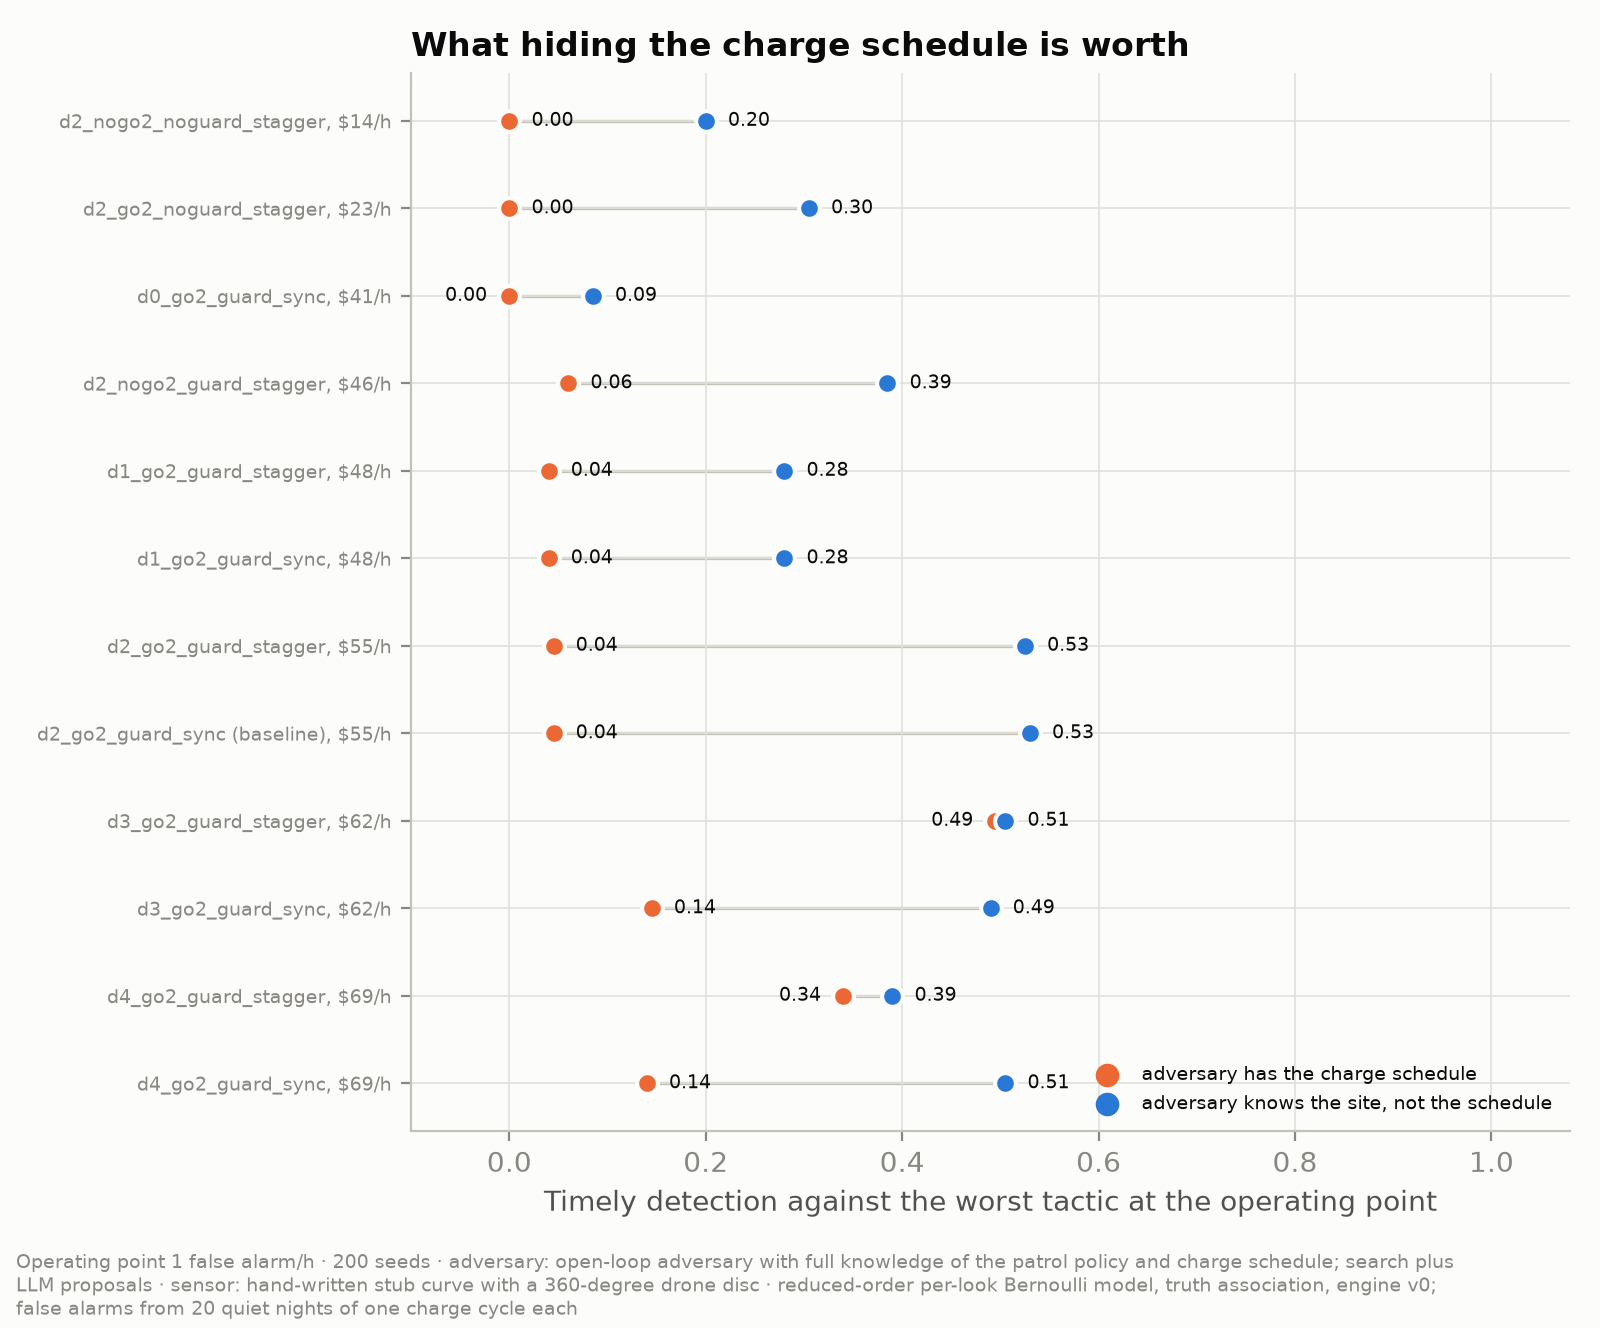
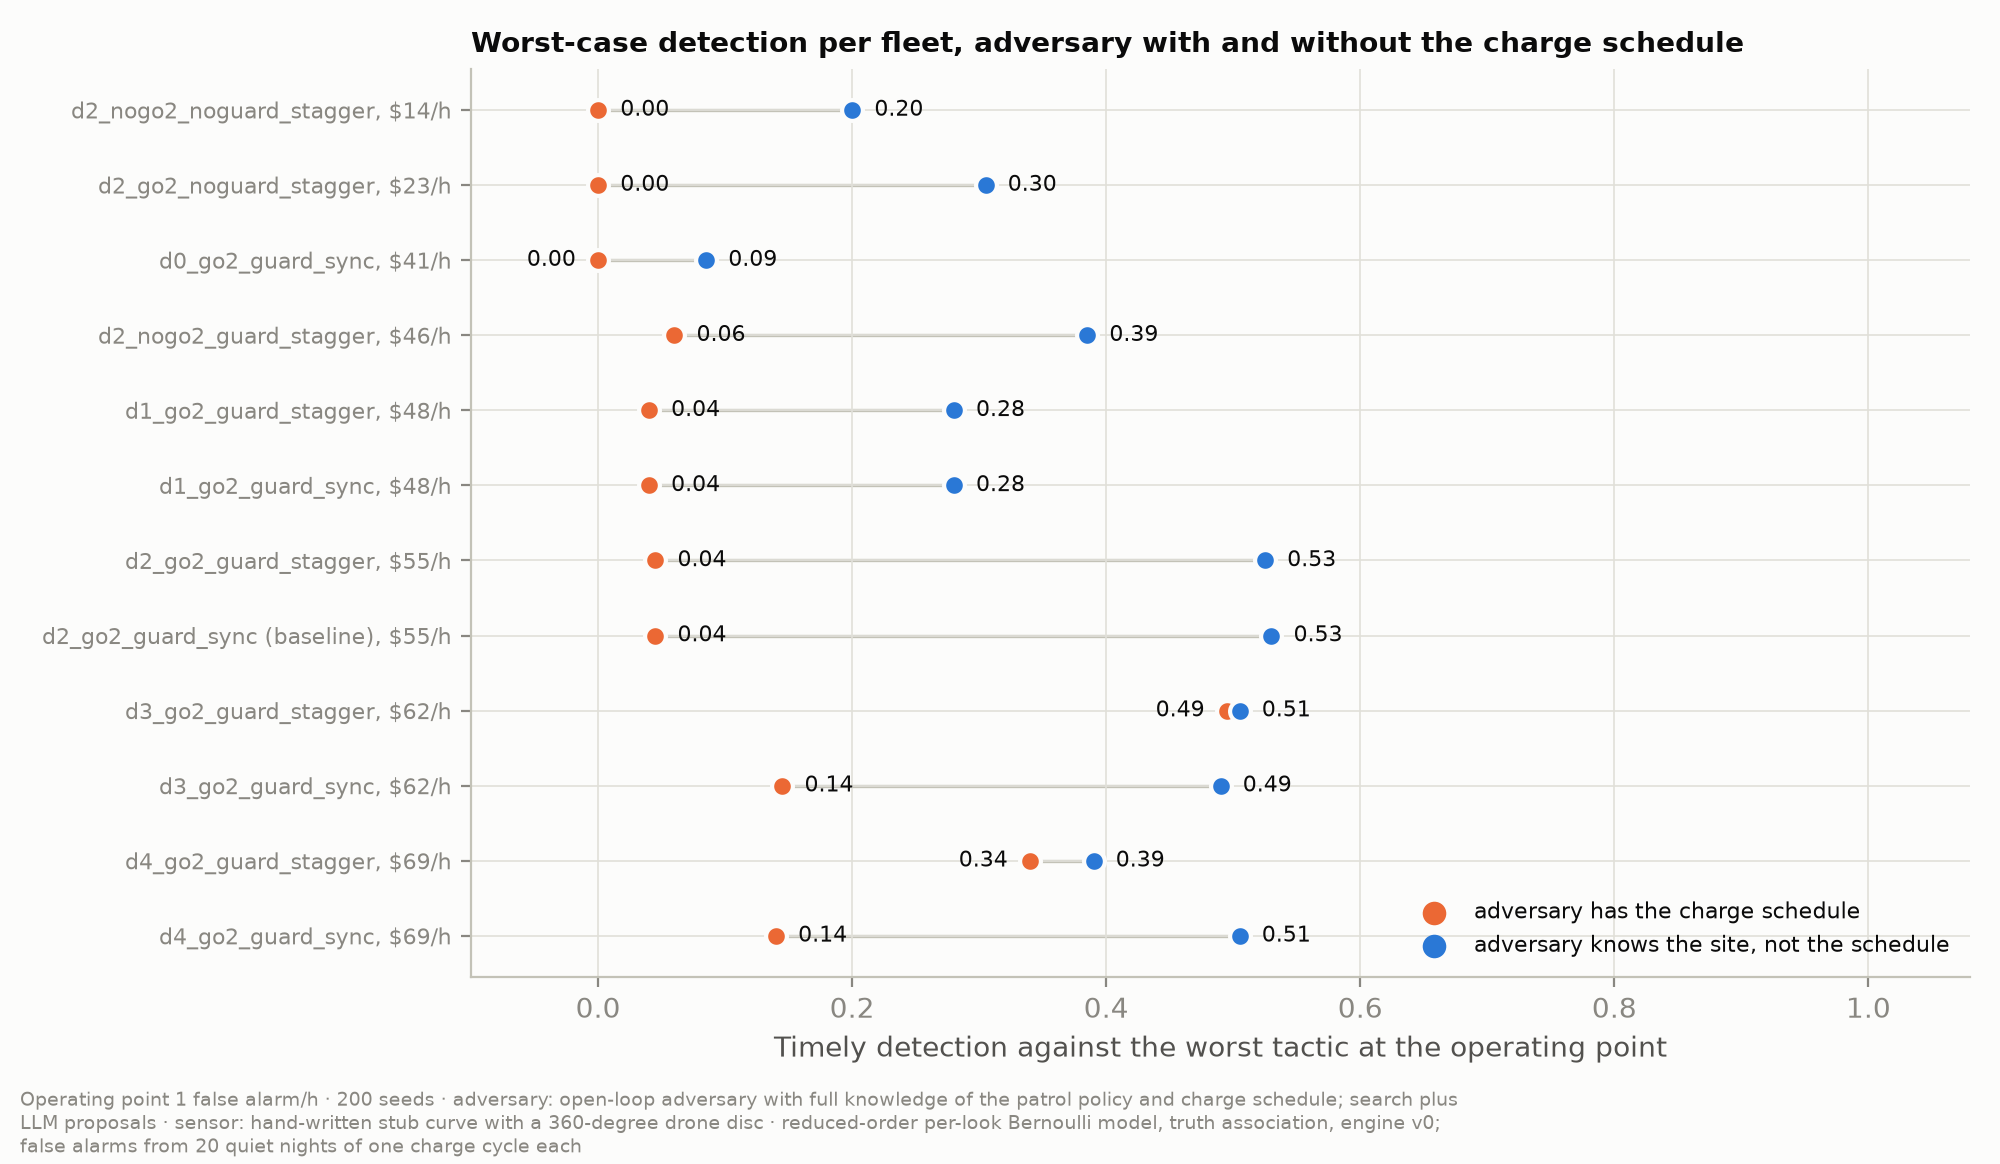
fix(pitch): fix and schedule slides fit the frame; chart title no longer repeats the slide title

diff --git a/pitch/build_deck.py b/pitch/build_deck.py
@@ -49,7 +49,7 @@ def blind_line(ba: dict) -> str:
     pair = ba.get("worst_tactic_pd_schedule_blind") or [None, None]
     if pair[0] is None or pair[1] is None:
         return ""
-    return f"; the same tactics without the charge schedule {_fmt(pair[0])} to {_fmt(pair[1])}"
+    return f"; the same tactics without the schedule {_fmt(pair[0])} to {_fmt(pair[1])}"
 
 
 def _fmt(v: float, digits: int = 2) -> str:
@@ -113,7 +113,7 @@ def build(
     )
     sb = numbers.get("schedule_blind") or {}
     schedule_slide = (
-        f"# What hiding the schedule is worth\n\n![height:440px]({charts_rel}/schedule_blind.png)\n\nSame fleets, same worst tactics. The orange point assumes the adversary has the charge schedule to the second; the blue point gives it the site and nothing else. The gap is what a site buys by keeping its schedule private, and the score reports both.{watermark}"
+        f"# What hiding the schedule is worth\n\n![height:480px]({charts_rel}/schedule_blind.png)\n\nSame fleets, same worst tactics: orange has the charge schedule, blue only the site. The gap is what keeping the schedule private buys.{watermark}"
         if sb and ba
         else None
     )
@@ -133,7 +133,7 @@ def build(
         ),
         f"# The score\n\n![height:470px]({charts_rel}/cost_vs_detection.png){watermark}",
         (
-            f"# The fix and the re-attack\n\n![height:400px]({charts_rel}/before_after.png)\n\n{ba['baseline']} to {ba['fixed']}: detection {_fmt(ba['pd'][0])} to {_fmt(ba['pd'][1])}; against the re-attacking worst tactic {_fmt(ba['worst_tactic_pd'][0])} to {_fmt(ba['worst_tactic_pd'][1])}{blind_line(ba)}.\n\n*Replay clip B: the catch.*{clip_line(clips, 'catch')}{watermark}"
+            f"# The fix and the re-attack\n\n![height:300px]({charts_rel}/before_after.png)\n\n{ba['baseline']} to {ba['fixed']}: detection {_fmt(ba['pd'][0])} to {_fmt(ba['pd'][1])}; worst tactic {_fmt(ba['worst_tactic_pd'][0])} to {_fmt(ba['worst_tactic_pd'][1])}{blind_line(ba)}.\n\n*Replay clip B: the catch.*{clip_line(clips, 'catch')}{watermark}"
             if ba
             else f"# The fix and the re-attack\n\n*Needs a report with at least two configurations.*{watermark}"
         ),

diff --git a/pitch/make_charts.py b/pitch/make_charts.py
@@ -337,7 +337,7 @@ def chart_schedule_blind(r: Report, p: Palette, out: Path, numbers: dict) -> Non
     if len(rows) < len(r.configs) or not rows:
         return
     rows.sort(key=lambda c: (c.cost_per_hour, c.config_name))
-    fig, ax = plt.subplots(figsize=(8, 0.42 * len(rows) + 1.6))
+    fig, ax = plt.subplots(figsize=(10, 0.36 * len(rows) + 1.5))
     ys = list(range(len(rows)))[::-1]
     for y, c in zip(ys, rows, strict=True):
         known, hidden = c.worst_tactic_pd, float(c.worst_tactic_pd_schedule_blind or 0.0)
@@ -360,7 +360,7 @@ def chart_schedule_blind(r: Report, p: Palette, out: Path, numbers: dict) -> Non
                 textcoords="offset points",
                 va="center",
                 ha=ha,
-                fontsize=7,
+                fontsize=8,
                 color=p.ink,
             )
     ax.scatter([], [], s=56, color=p.series[1], label="adversary has the charge schedule")
@@ -371,12 +371,16 @@ def chart_schedule_blind(r: Report, p: Palette, out: Path, numbers: dict) -> Non
             f"{c.config_name}{' (baseline)' if c.config_name == r.baseline_config else ''}, ${c.cost_per_hour:.0f}/h"
             for c in rows
         ],
-        fontsize=7,
+        fontsize=8,
     )
     ax.set_xlim(-0.1, 1.08)
     ax.set_xlabel("Timely detection against the worst tactic at the operating point")
-    ax.set_title("What hiding the charge schedule is worth", loc="left")
-    ax.legend(loc="lower right", fontsize=7, frameon=False)
+    ax.set_title(
+        "Worst-case detection per fleet, adversary with and without the charge schedule",
+        loc="left",
+        fontsize=10,
+    )
+    ax.legend(loc="lower right", fontsize=8, frameon=False)
     fig.text(0.01, 0.01, conditions_line(r), fontsize=7, color=p.muted)
     fig.tight_layout(rect=(0, 0.06, 1, 1))
     fig.savefig(out / "schedule_blind.png")

diff --git a/pitch/deck.md b/pitch/deck.md
@@ -60,9 +60,9 @@ Clip A, seed 63663: d2_go2_guard_sync never raised a timely alarm against `charg
 
 # The fix and the re-attack
 
-![height:400px](charts/before_after.png)
+![height:300px](charts/before_after.png)
 
-d2_go2_guard_sync to d3_go2_guard_stagger: detection 0.14 to 0.63; against the re-attacking worst tactic 0.04 to 0.49; the same tactics without the charge schedule 0.53 to 0.51.
+d2_go2_guard_sync to d3_go2_guard_stagger: detection 0.14 to 0.63; worst tactic 0.04 to 0.49; the same tactics without the schedule 0.53 to 0.51.
 
 *Replay clip B: the catch.*
 
@@ -72,9 +72,9 @@ Clip B, same seed and tactic: d3_go2_guard_stagger alarmed at 24 s, before the 3
 
 # What hiding the schedule is worth
 
-![height:440px](charts/schedule_blind.png)
+![height:480px](charts/schedule_blind.png)
 
-Same fleets, same worst tactics. The orange point assumes the adversary has the charge schedule to the second; the blue point gives it the site and nothing else. The gap is what a site buys by keeping its schedule private, and the score reports both.
+Same fleets, same worst tactics: orange has the charge schedule, blue only the site. The gap is what keeping the schedule private buys.
 
 ---
 
